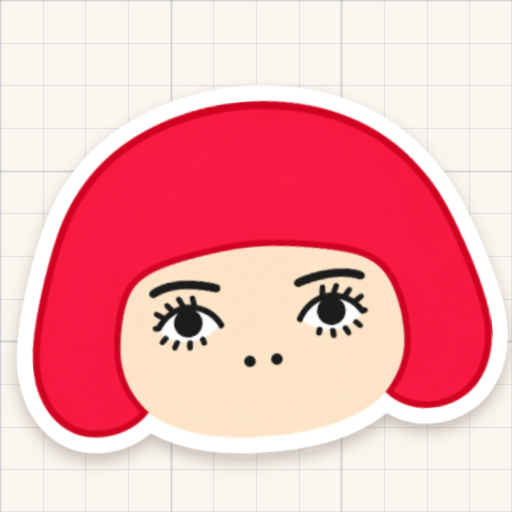
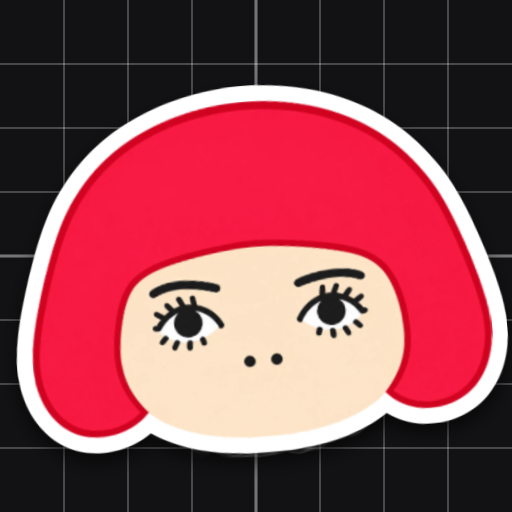
v1.0.8: 검은 바둑판 위 다이컷 스티커 아이콘

diff --git a/public/config.js b/public/config.js
@@ -64,7 +64,7 @@ function setPresetId(id) {
 // 앱 버전 — 배포할 때마다 올린다 (큰 기능: 가운데 숫자, 고침: 끝 숫자)
 const APP = {
   name: 'Hongido Stickers',
-  version: '1.0.7',
+  version: '1.0.8',
   date: '2026-11-21',
   maker: 'Seoulrain',        // 서울비
 };

diff --git a/SPEC.md b/SPEC.md
@@ -112,6 +112,7 @@
 - 2026-11-21: v1.0.1 — 넣는 방향 글자를 'FEED'로(한글이 가로로 넓어 보여서), 만든 사람을 'Made by Seoulbi for Hongido'로(두 사람처럼 읽혀서). README에 만든 계기(캐논 PIXMA TS8190, PS-108 대체로 A-one 29602, 캔바 위치 맞추기의 번거로움), 용지 추가 요청 방법, Claude Code로 만들었다는 내용 추가. 저장소를 공개로 전환.
 - 2026-11-21: v1.0.2 — 만든 사람 표기를 README와 앱 모두 'Made by seoulrain for Hongido'로 통일.
 - 2026-11-21: v1.0.3 — 표기를 'Seoulrain'(첫 글자 대문자)으로.
+- 2026-11-21: v1.0.8 — 홈 화면 아이콘 바탕을 검은 바둑판(흰 격자 8칸, 가운데 선은 조금 진하게)으로. 밝은 종이 위 옅은 격자는 작게 보면 안 보여서. 커팅 매트 위에 다이컷 스티커를 올린 모습.
 - 2026-11-21: v1.0.7 — 파비콘은 바탕을 투명하게(favicon-64/192.png, 스티커만). 홈 화면 아이콘은 아이폰이 투명 바탕을 검게 채우므로, 검정 대신 다이어리 모눈종이(종이색 + 옅은 12칸 격자) 위에 스티커가 붙은 모습으로.
 - 2026-11-21: v1.0.6 — 홈 화면 아이콘·파비콘을 '다이컷 스티커'로: 어두운 바탕 위 홍이도 얼굴을 폭 90%로 꽉 채우고, 얼굴 모양대로 두꺼운 흰 테두리 + 살짝 기울임 + 그림자. 캐릭터는 크게 보이면서 스티커 앱이라는 것을 암시.
 - 2026-11-21: v1.0.5 — 앱 안 로고를 'hongid(얼굴) stickers'로(stickers는 옅고 가늘게), 아래 '홍이도 스티커' 줄은 뜻이 겹쳐서 뺌.

diff --git a/README.md b/README.md
@@ -6,7 +6,7 @@
 
 <p align="center">
   사진만 고르면 스티커 용지의 정해진 칸에 꼭 맞게 인쇄되는 아이폰용 웹앱<br>
-  <b>v1.0.7</b> · 2026.11.21 · Made by Seoulrain for Hongido
+  <b>v1.0.8</b> · 2026.11.21 · Made by Seoulrain for Hongido
 </p>
 
 ---
@@ -98,6 +98,7 @@ python -m http.server 8000 --directory public
 ## 버전
 | 버전 | 날짜 | 내용 |
 |---|---|---|
+| v1.0.8 | 2026.11.21 | 홈 화면 아이콘 바탕을 검은 바둑판(흰 격자)으로 |
 | v1.0.7 | 2026.11.21 | 파비콘 바탕 투명, 홈 화면 아이콘 바탕을 다이어리 모눈종이로 |
 | v1.0.6 | 2026.11.21 | 아이콘을 다이컷 스티커 모양(홍이도 얼굴 + 흰 테두리)으로 꽉 채워 |
 | v1.0.5 | 2026.11.21 | 앱 안 로고를 'hongid(얼굴) stickers'로, 아래 한글 줄 빼기 |
